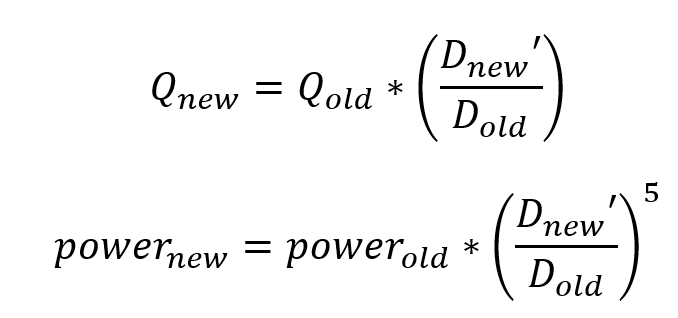
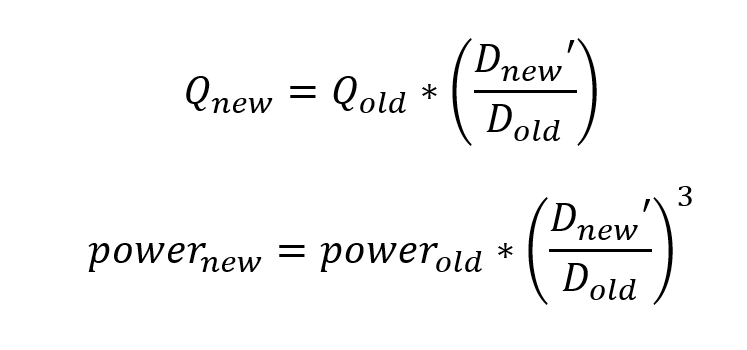
Для программистов

Changed region(s): [[0.0619, 0.5094, 0.9912, 0.934], [0.2168, 0.1132, 0.8363, 0.4528], [0.7434, 0.9057, 0.7743, 0.934]]

diff --git a/pages/Обточка рабочего колеса.py b/pages/Обточка рабочего колеса.py
@@ -130,7 +130,7 @@ if uploaded_file is not None:
         # Добавляем новые колонки с преобразованными значениями
         df1['Q_new'] = df1['Q'] * ratio
         df1['H_new'] = df1['H'] * (ratio ** 2)
-        df1['power_new'] = df1['power'] * (ratio ** 5)
+        df1['power_new'] = df1['power'] * (ratio ** 3)
 
         # Присваиваем индексы для наглядности
         df1.index = range(1, len(df1) + 1)
